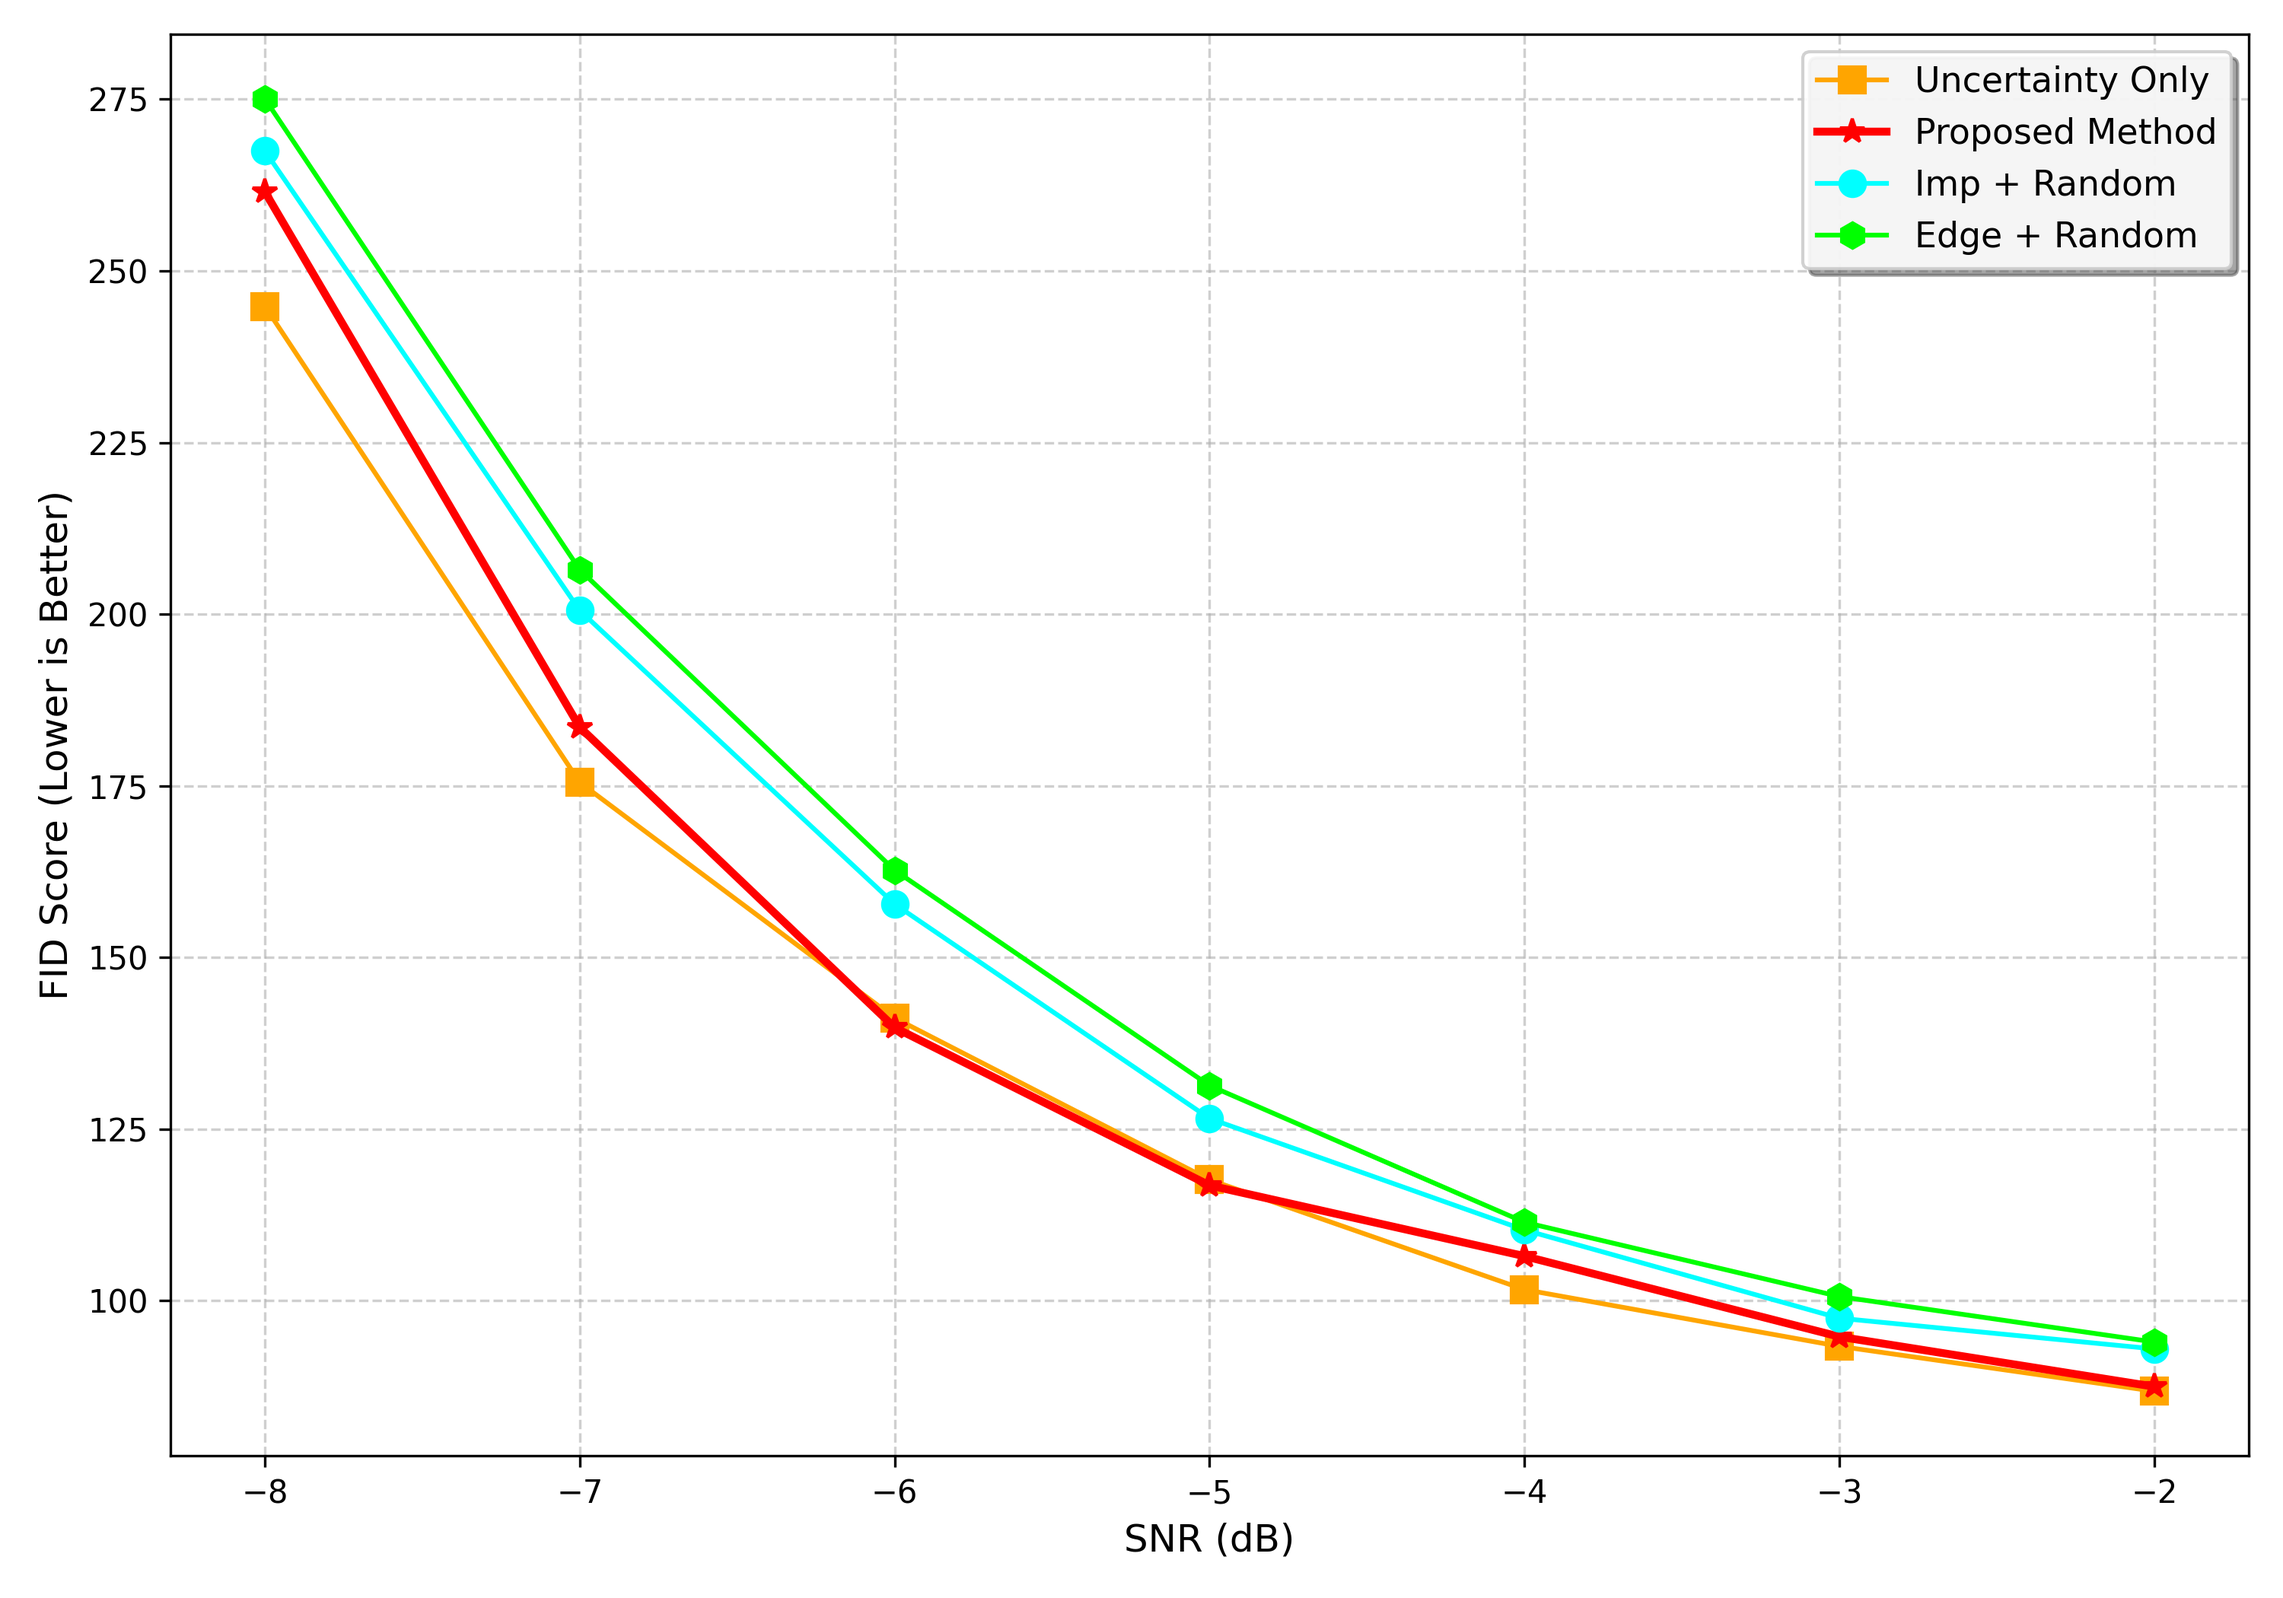
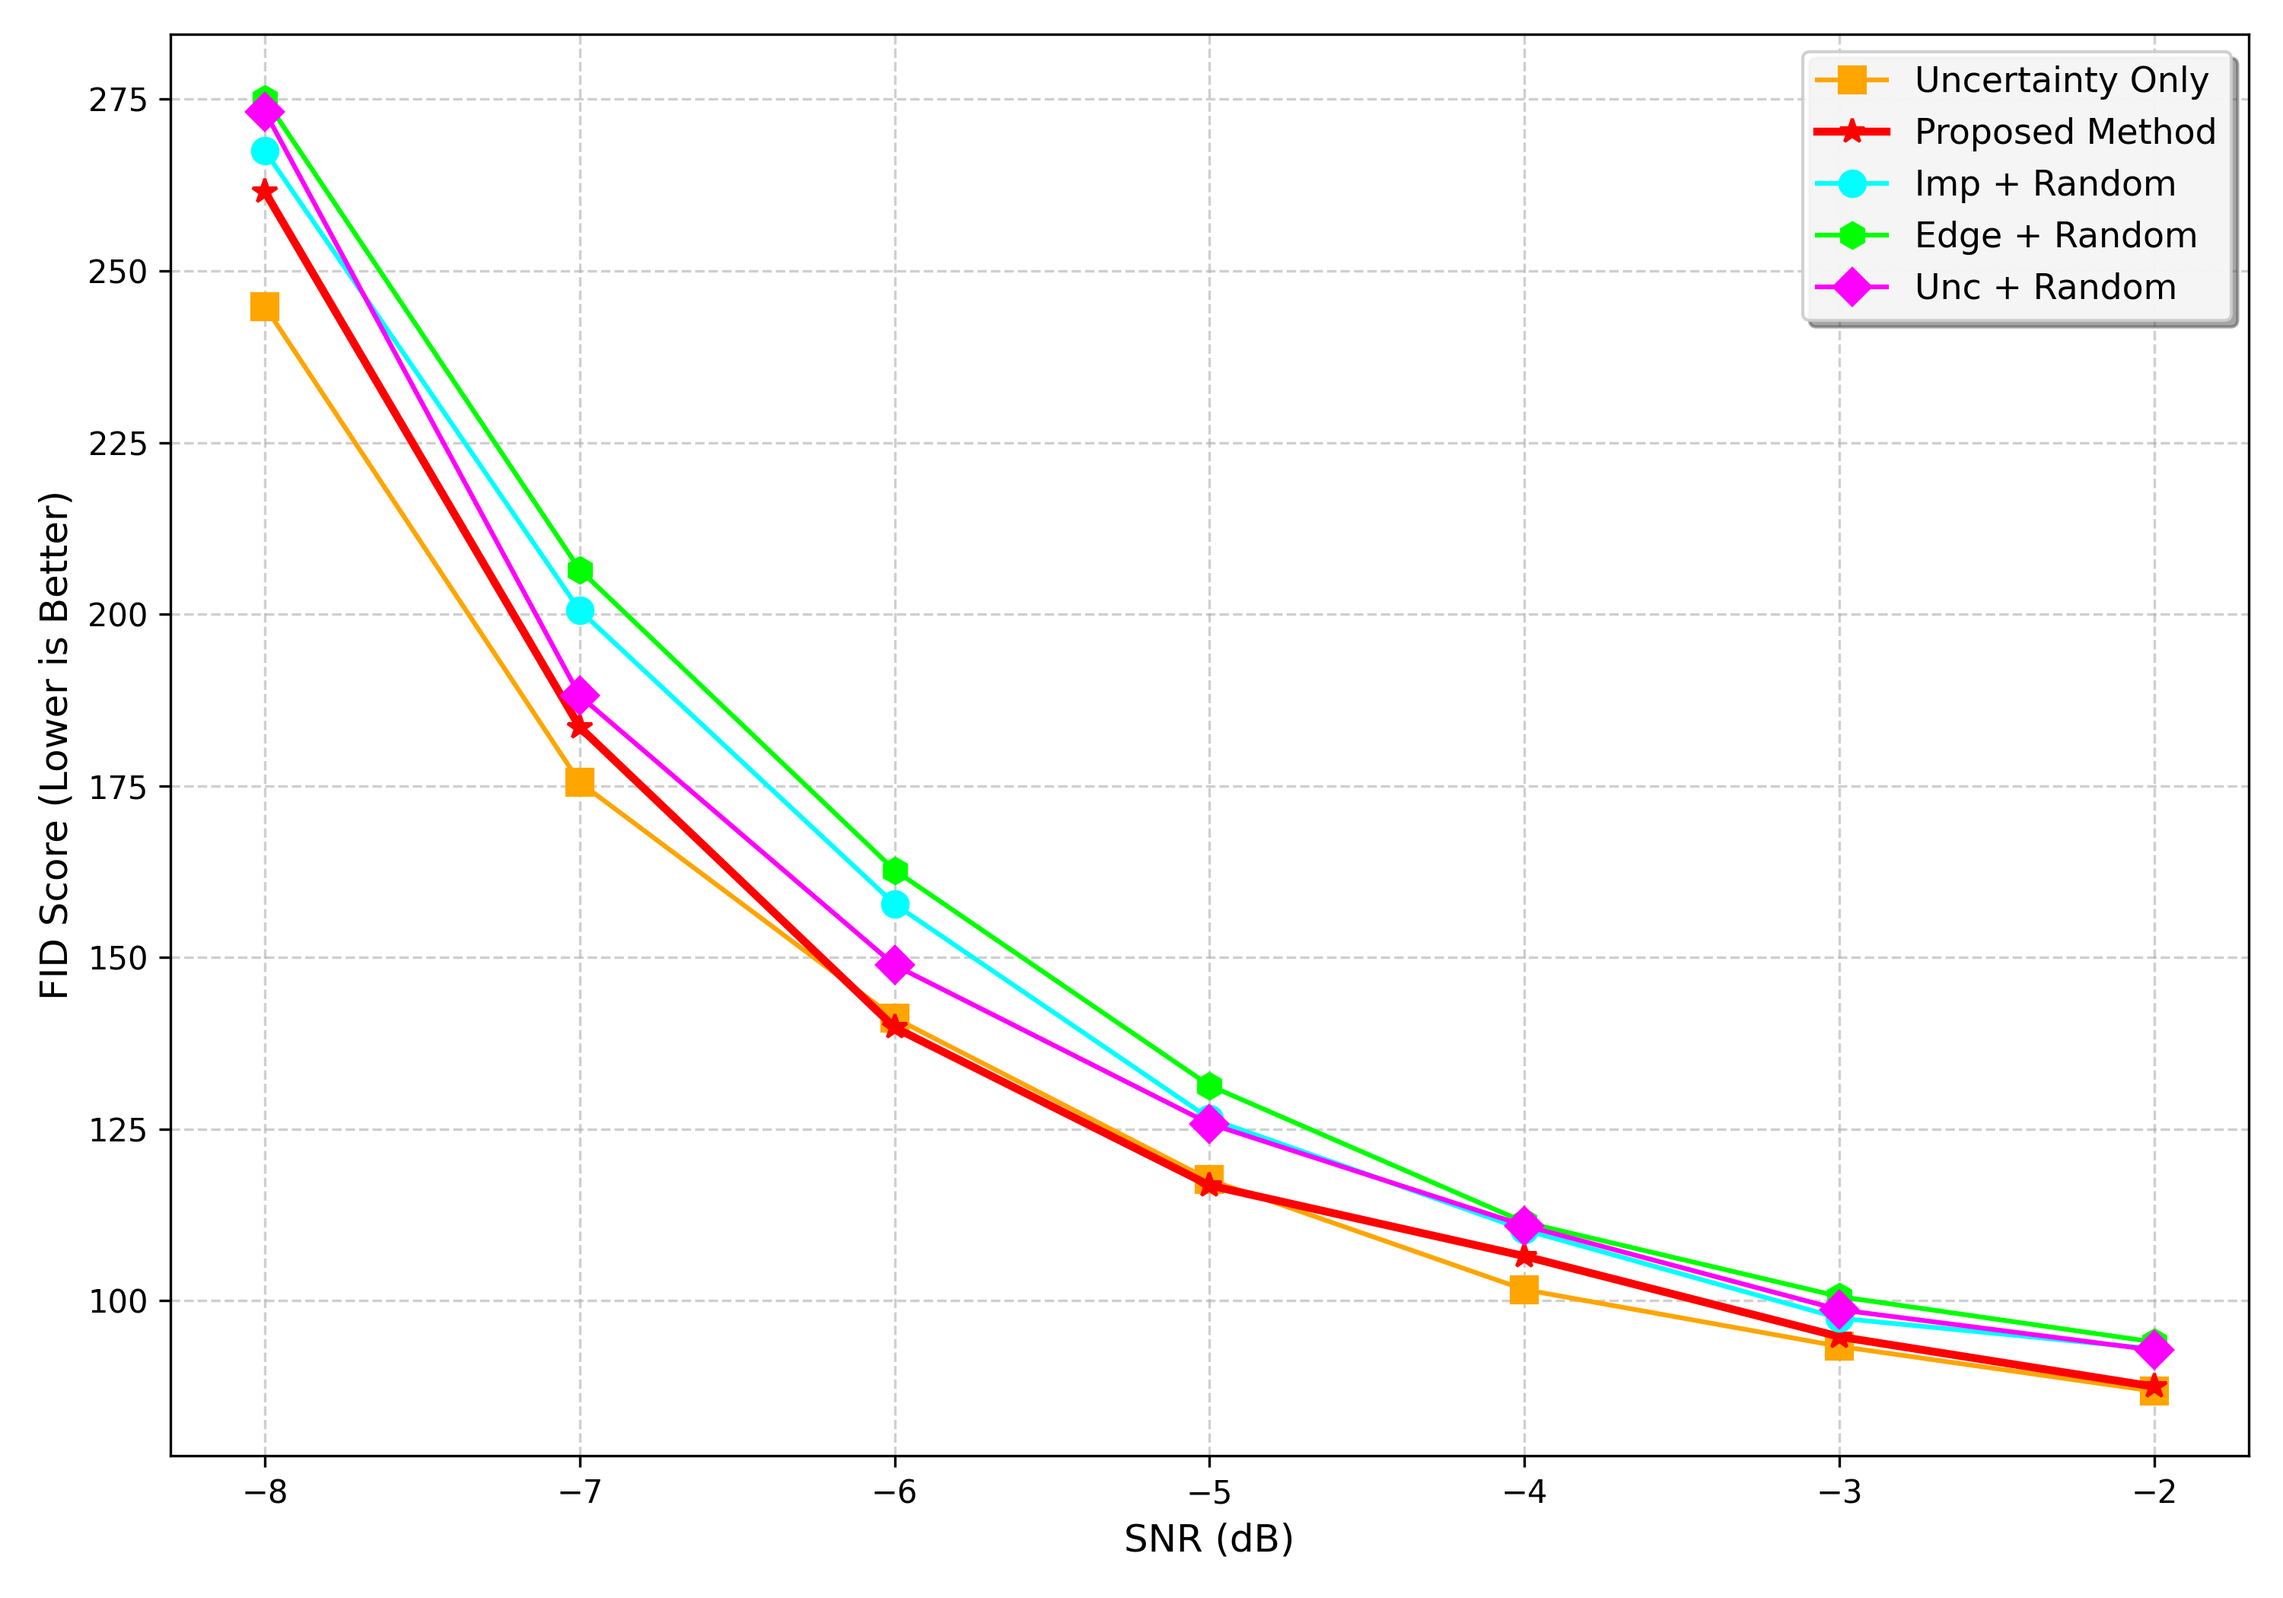
Sui

diff --git a/Suite/plot_psnr_suite.py b/Suite/plot_psnr_suite.py
@@ -52,6 +52,7 @@ STYLE_CONFIG = {
     # New Hybrid Baselines (v3)
     "6_Importance_Random": {"label": "Imp + Random",      "color": "cyan",   "linestyle": "-",  "marker": "o"},
     "7_Edge_Random":       {"label": "Edge + Random",     "color": "lime",   "linestyle": "-",  "marker": "h"},
+    "8_Uncertainty_Random":{"label": "Unc + Random",      "color": "magenta","linestyle": "-",  "marker": "D"}, # Added
 }
 
 def get_target_methods_and_sources(version):
@@ -98,8 +99,8 @@ def get_target_methods_and_sources(version):
         
         # v3フォルダから取得するもの
         v3_methods = [
-            "1_JSCC_Init", "2_Phase1_Recon", "1_Random_Baseline", # ベースラインもv3で再計算されている前提
-            "6_Importance_Random", "7_Edge_Random"
+            #"1_JSCC_Init", "2_Phase1_Recon", "1_Random_Baseline", # ベースラインもv3で再計算されている前提
+            "6_Importance_Random", "7_Edge_Random", "8_Uncertainty_Random"
         ]
         for m in v3_methods:
             targets[m] = ROOT_V3
@@ -240,6 +241,45 @@ def plot_graph(data_store):
     print(f"\nGraph saved to: {filename}")
     # plt.show() # 必要に応じてコメントアウト解除
 
+def print_statistics(data_store):
+    """
+    集計されたPSNRデータをターミナルに表形式で出力する
+    """
+    print("\n" + "="*80)
+    print(f" PSNR Numerical Results (Mode: {VERSION})")
+    print("="*80)
+    
+    # ヘッダー作成 (SNR)
+    # Method 名のスペース(25文字) + 各SNR(10文字)
+    header = f"{'Method':<25}" + "".join([f"{snr:>10}dB" for snr in SNR_LABELS])
+    print(header)
+    print("-" * len(header))
+    
+    # STYLE_CONFIG の順序に従って表示
+    sorted_methods = [k for k in STYLE_CONFIG.keys() if k in data_store]
+    
+    for method in sorted_methods:
+        snr_dict = data_store[method]
+        
+        # データが空の場合はスキップ
+        if not snr_dict:
+            continue
+            
+        label_name = STYLE_CONFIG[method]["label"]
+        row_str = f"{label_name:<25}"
+        
+        for snr in SNR_LABELS:
+            val = snr_dict.get(snr, None)
+            if val is not None:
+                # PSNRは小数点以下2～4桁表示が見やすい
+                row_str += f"{val:>10.4f}"
+            else:
+                row_str += f"{'N/A':>10}"
+        
+        print(row_str)
+    
+    print("="*80 + "\n")
+
 # ==========================================
 # メイン実行
 # ==========================================
@@ -258,5 +298,8 @@ if __name__ == "__main__":
     # 2. データ読み込み
     data = load_psnr_data(targets, patterns)
     
-    # 3. プロット
+    # 3. データの表形式出力
+    print_statistics(data)
+    
+    # 4. プロット
     plot_graph(data)

diff --git a/Suite/plot_id_loss_suite.py b/Suite/plot_id_loss_suite.py
@@ -54,6 +54,7 @@ STYLE_CONFIG = {
     # New Hybrid Baselines (v3)
     "6_Importance_Random": {"label": "Imp + Random",      "color": "cyan",   "linestyle": "-",  "marker": "o"},
     "7_Edge_Random":       {"label": "Edge + Random",     "color": "lime",   "linestyle": "-",  "marker": "h"},
+    "8_Uncertainty_Random":{"label": "Unc + Random",      "color": "magenta","linestyle": "-",  "marker": "D"}, # Added
 }
 
 def get_target_methods_and_sources(version):
@@ -100,8 +101,8 @@ def get_target_methods_and_sources(version):
         
         # v3フォルダから取得するもの
         v3_methods = [
-            "1_JSCC_Init", "2_Phase1_Recon", "1_Random_Baseline", 
-            "6_Importance_Random", "7_Edge_Random"
+            #"1_JSCC_Init", "2_Phase1_Recon", "1_Random_Baseline", 
+            "6_Importance_Random", "7_Edge_Random", "8_Uncertainty_Random"
         ]
         for m in v3_methods:
             targets[m] = ROOT_V3
@@ -244,6 +245,45 @@ def plot_graph(data_store):
     print(f"\nGraph saved to: {filename}")
     # plt.show() # 必要に応じてコメントアウト解除
 
+def print_statistics(data_store):
+    """
+    集計されたID Lossデータをターミナルに表形式で出力する
+    """
+    print("\n" + "="*80)
+    print(f" ID Loss Numerical Results (Mode: {VERSION})")
+    print("="*80)
+    
+    # ヘッダー作成 (SNR)
+    # Method 名のスペース(25文字) + 各SNR(10文字)
+    header = f"{'Method':<25}" + "".join([f"{snr:>10}dB" for snr in SNR_LABELS])
+    print(header)
+    print("-" * len(header))
+    
+    # STYLE_CONFIG の順序に従って表示
+    sorted_methods = [k for k in STYLE_CONFIG.keys() if k in data_store]
+    
+    for method in sorted_methods:
+        snr_dict = data_store[method]
+        
+        # データが空の場合はスキップ
+        if not snr_dict:
+            continue
+            
+        label_name = STYLE_CONFIG[method]["label"]
+        row_str = f"{label_name:<25}"
+        
+        for snr in SNR_LABELS:
+            val = snr_dict.get(snr, None)
+            if val is not None:
+                # ID Lossは値が小さいので、必要なら桁数を増やす
+                row_str += f"{val:>10.4f}"
+            else:
+                row_str += f"{'N/A':>10}"
+        
+        print(row_str)
+    
+    print("="*80 + "\n")
+
 # ==========================================
 # メイン実行
 # ==========================================
@@ -262,5 +302,8 @@ if __name__ == "__main__":
     # 2. データ読み込み
     data = load_id_loss_data(targets, patterns)
     
-    # 3. プロット
+    # 3. データの表形式出力
+    print_statistics(data)
+    
+    # 4. プロット
     plot_graph(data)

diff --git a/Suite/plot_dists_suite.py b/Suite/plot_dists_suite.py
@@ -13,7 +13,7 @@ import numpy as np
 # v1: "results_retrans_comparison_v1" 内の全データをプロット
 # v2: "results_retrans_comparison_v2" + v1 (Uncertainty & Proposed)
 # v3: "results_retrans_comparison_v3" + v1 (Uncertainty & Proposed)
-VERSION = "v1"
+VERSION = "v3"
 
 # 共通設定
 DATASET = "ffhq_demo"
@@ -54,6 +54,7 @@ STYLE_CONFIG = {
     # New Hybrid Baselines (v3)
     "6_Importance_Random": {"label": "Imp + Random",      "color": "cyan",   "linestyle": "-",  "marker": "o"},
     "7_Edge_Random":       {"label": "Edge + Random",     "color": "lime",   "linestyle": "-",  "marker": "h"},
+    "8_Uncertainty_Random":{"label": "Unc + Random",      "color": "magenta","linestyle": "-",  "marker": "D"}, # Added
 }
 
 def get_target_methods_and_sources(version):
@@ -100,8 +101,8 @@ def get_target_methods_and_sources(version):
         
         # v3フォルダから取得するもの
         v3_methods = [
-            "1_JSCC_Init", "2_Phase1_Recon", "1_Random_Baseline", 
-            "6_Importance_Random", "7_Edge_Random"
+            #"1_JSCC_Init", "2_Phase1_Recon", "1_Random_Baseline", 
+            "6_Importance_Random", "7_Edge_Random", "8_Uncertainty_Random"
         ]
         for m in v3_methods:
             targets[m] = ROOT_V3

diff --git a/Suite/plot_fid_suite.py b/Suite/plot_fid_suite.py
@@ -13,7 +13,7 @@ import numpy as np
 # v1: "results_retrans_comparison_v1" 内の全データをプロット
 # v2: "results_retrans_comparison_v2" + v1 (Uncertainty & Proposed)
 # v3: "results_retrans_comparison_v3" + v1 (Uncertainty & Proposed)
-VERSION = "v1"
+VERSION = "v3"
 
 # 共通設定
 DATASET = "ffhq_demo"
@@ -54,6 +54,7 @@ STYLE_CONFIG = {
     # New Hybrid Baselines (v3)
     "6_Importance_Random": {"label": "Imp + Random",      "color": "cyan",   "linestyle": "-",  "marker": "o"},
     "7_Edge_Random":       {"label": "Edge + Random",     "color": "lime",   "linestyle": "-",  "marker": "h"},
+    "8_Uncertainty_Random":{"label": "Unc + Random",      "color": "magenta","linestyle": "-",  "marker": "D"}, # Added
 }
 
 def get_target_methods_and_sources(version):
@@ -100,8 +101,8 @@ def get_target_methods_and_sources(version):
         
         # v3フォルダから取得するもの
         v3_methods = [
-            "1_JSCC_Init", "2_Phase1_Recon", "1_Random_Baseline", 
-            "6_Importance_Random", "7_Edge_Random"
+            #"1_JSCC_Init", "2_Phase1_Recon", "1_Random_Baseline", 
+            "6_Importance_Random", "7_Edge_Random", "8_Uncertainty_Random"
         ]
         for m in v3_methods:
             targets[m] = ROOT_V3

diff --git a/Suite/plot_lpips_suite.py b/Suite/plot_lpips_suite.py
@@ -13,7 +13,7 @@ import numpy as np
 # v1: "results_retrans_comparison_v1" 内の全データをプロット
 # v2: "results_retrans_comparison_v2" + v1 (Uncertainty & Proposed)
 # v3: "results_retrans_comparison_v3" + v1 (Uncertainty & Proposed)
-VERSION = "v1"
+VERSION = "v3"
 
 # 共通設定
 DATASET = "ffhq_demo"
@@ -51,6 +51,7 @@ STYLE_CONFIG = {
     # New Hybrid Baselines (v3)
     "6_Importance_Random": {"label": "Imp + Random",      "color": "cyan",   "linestyle": "-",  "marker": "o"},
     "7_Edge_Random":       {"label": "Edge + Random",     "color": "lime",   "linestyle": "-",  "marker": "h"},
+    "8_Uncertainty_Random":{"label": "Unc + Random",      "color": "magenta","linestyle": "-",  "marker": "D"}, # Added
 }
 
 def get_target_methods_and_sources(version):
@@ -97,8 +98,8 @@ def get_target_methods_and_sources(version):
         
         # v3フォルダから取得するもの
         v3_methods = [
-            "1_JSCC_Init", "2_Phase1_Recon", "1_Random_Baseline", 
-            "6_Importance_Random", "7_Edge_Random"
+            #"1_JSCC_Init", "2_Phase1_Recon", "1_Random_Baseline", 
+            "6_Importance_Random", "7_Edge_Random", "8_Uncertainty_Random"
         ]
         for m in v3_methods:
             targets[m] = ROOT_V3

diff --git a/Suite/calc_id_loss_suite.py b/Suite/calc_id_loss_suite.py
@@ -155,7 +155,7 @@ if __name__ == "__main__":
     # ==========================================
     
     # ★ バージョン選択 ('v1', 'v2', 'v3') ★
-    VERSION = "v2"
+    VERSION = "v3"
     
     # 共通設定
     DATASET = "ffhq_demo"   
@@ -179,10 +179,11 @@ if __name__ == "__main__":
         EXP_FACTOR = 2.0
         GAMMA = 0.9 
         
-        # 新しい実験スイート (6, 7)
+        # 新しい実験スイート (6, 7, 8)
         TARGET_METHODS = [
             "6_Importance_Random",
-            "7_Edge_Random"
+            "7_Edge_Random",
+            "8_Uncertainty_Random"
         ]
 
     elif VERSION == "v2":

diff --git a/Suite/calc_psnr_suite.py b/Suite/calc_psnr_suite.py
@@ -102,7 +102,7 @@ if __name__ == "__main__":
     # ==========================================
     
     # ★ バージョン選択 ('v1', 'v2', 'v3') ★
-    VERSION = "v1"
+    VERSION = "v3"
     
     # 共通設定
     DATASET = "ffhq_demo"   
@@ -127,10 +127,11 @@ if __name__ == "__main__":
         EXP_FACTOR = 2.0
         GAMMA = 0.9 
         
-        # 新しい実験スイート (6, 7)
+        # 新しい実験スイート (6, 7, 8)
         TARGET_METHODS = [
             "6_Importance_Random",
-            "7_Edge_Random"
+            "7_Edge_Random",
+            "8_Uncertainty_Random"
         ]
 
     elif VERSION == "v2":

diff --git a/Suite/calc_dists_suite.py b/Suite/calc_dists_suite.py
@@ -135,10 +135,11 @@ if __name__ == "__main__":
         EXP_FACTOR = 2.0
         GAMMA = 0.9 
         
-        # 新しい実験スイート (6, 7)
+        # 新しい実験スイート (6, 7, 8)
         TARGET_METHODS = [
             "6_Importance_Random",
-            "7_Edge_Random"
+            "7_Edge_Random",
+            "8_Uncertainty_Random"
         ]
 
     elif VERSION == "v2":

diff --git a/Suite/calc_fid_suite.py b/Suite/calc_fid_suite.py
@@ -139,10 +139,11 @@ if __name__ == "__main__":
         EXP_FACTOR = 2.0
         GAMMA = 0.9 
         
-        # 新しい実験スイート (6, 7)
+        # 新しい実験スイート (6, 7, 8)
         TARGET_METHODS = [
             "6_Importance_Random",
-            "7_Edge_Random"
+            "7_Edge_Random",
+            "8_Uncertainty_Random"
         ]
 
     elif VERSION == "v2":

diff --git a/Suite/calc_lpips_suite.py b/Suite/calc_lpips_suite.py
@@ -136,10 +136,11 @@ if __name__ == "__main__":
         EXP_FACTOR = 2.0
         GAMMA = 0.9 
         
-        # 新しい実験スイート (6, 7)
+        # 新しい実験スイート (6, 7, 8)
         TARGET_METHODS = [
             "6_Importance_Random",
-            "7_Edge_Random"
+            "7_Edge_Random",
+            "8_Uncertainty_Random"
         ]
 
     elif VERSION == "v2":
